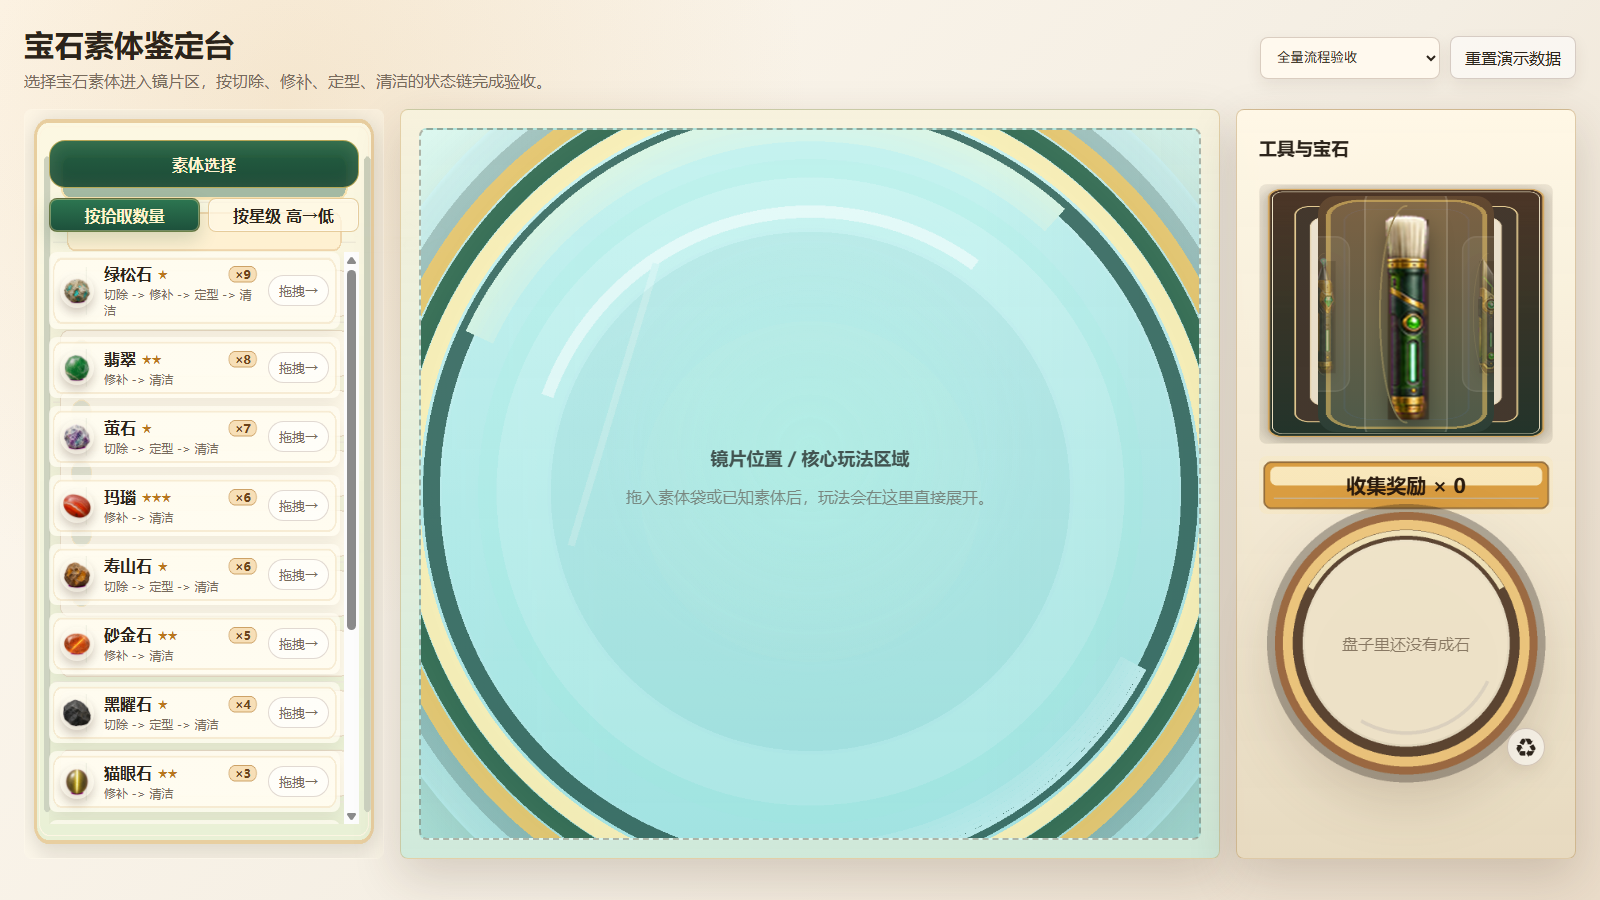
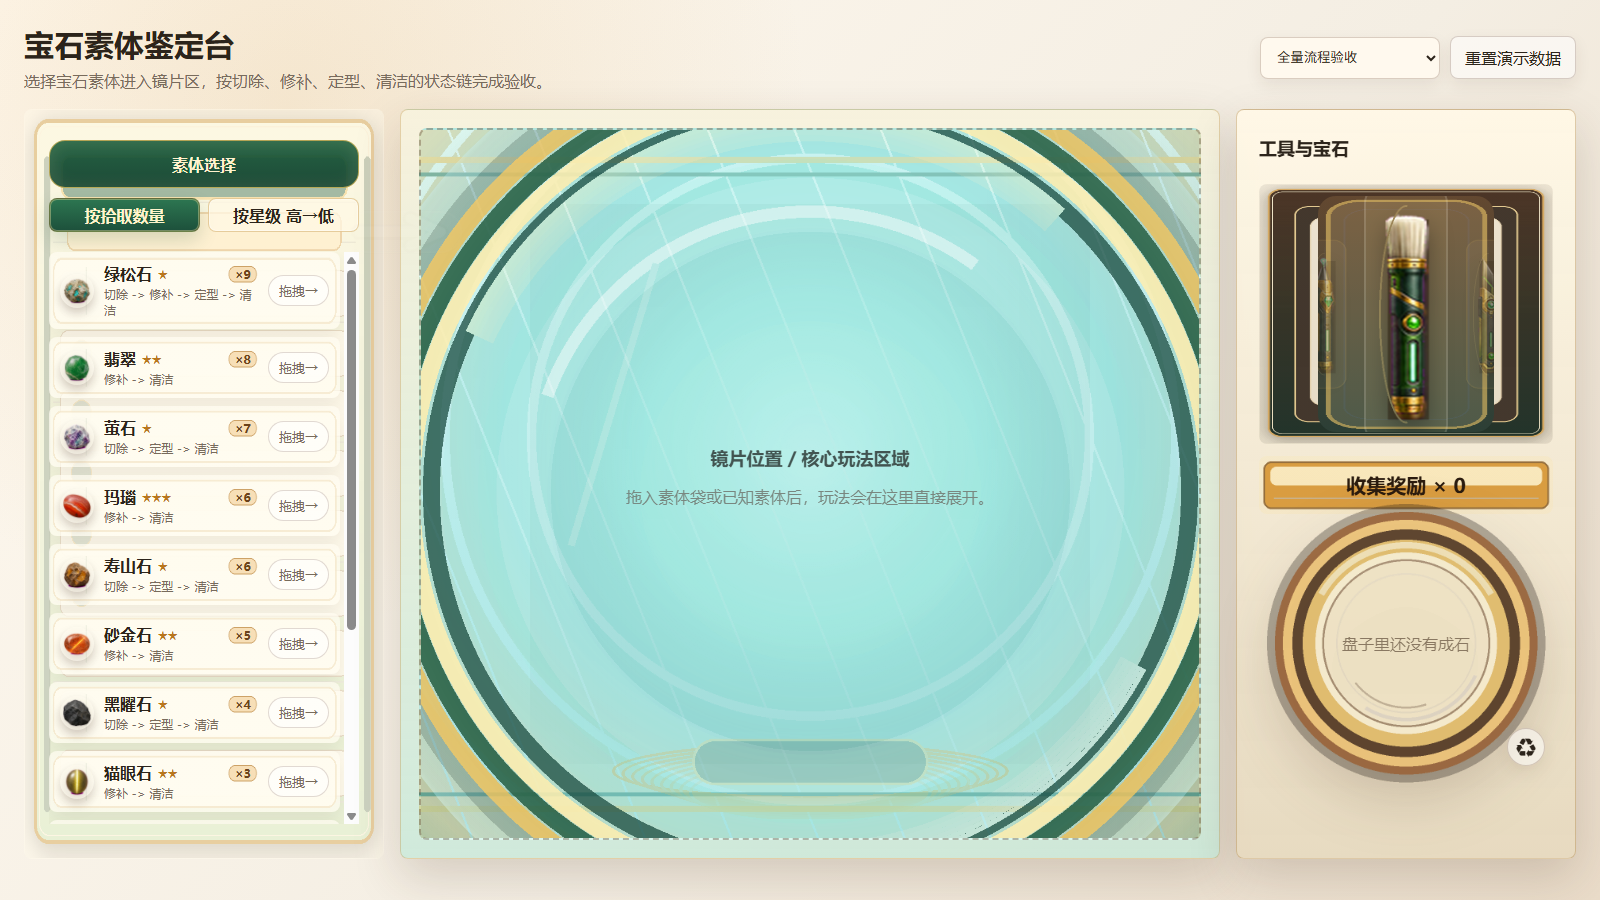
Expand v26 UI asset set

diff --git a/htmlDemo简单互动玩法/宝石鉴定html_v26RealAsset版.html b/htmlDemo简单互动玩法/宝石鉴定html_v26RealAsset版.html
@@ -1941,6 +1941,19 @@
         --v26-reward-modal:url("assets/ui_v26/ui_reward_modal/reward_modal_frame_C.png");
         --v26-mouse-wheel:url("assets/ui_v26/ui_hint_layer/mouse_wheel_icon_A.png");
         --v26-mouse-right:url("assets/ui_v26/ui_hint_layer/mouse_right_icon_A.png");
+        --v26-center-bg:url("assets/ui_v26/ui_center_stage/center_stage_bg_A.png");
+        --v26-center-glow:url("assets/ui_v26/ui_center_stage/center_stage_inner_glow_A.png");
+        --v26-stage-base:url("assets/ui_v26/ui_center_stage/center_stage_bottom_base_C.png");
+        --v26-hint-bg:url("assets/ui_v26/ui_hint_layer/hint_toast_bg_A.png");
+        --v26-defect-clean:url("assets/ui_v26/ui_defect_fx/defect_clean_swirl_A.png");
+        --v26-defect-cut:url("assets/ui_v26/ui_defect_fx/defect_cut_strip_C.png");
+        --v26-defect-repair:url("assets/ui_v26/ui_defect_fx/defect_repair_drop_C.png");
+        --v26-shape-circle:url("assets/ui_v26/ui_defect_fx/defect_shape_circle_C.png");
+        --v26-shape-triangle:url("assets/ui_v26/ui_defect_fx/defect_shape_triangle_C.png");
+        --v26-shape-square:url("assets/ui_v26/ui_defect_fx/defect_shape_square_C.png");
+        --v26-reward-slot:url("assets/ui_v26/ui_reward_modal/reward_item_slot_C.png");
+        --v26-reward-badge:url("assets/ui_v26/ui_reward_modal/reward_quantity_badge_C.png");
+        --v26-firework:url("assets/ui_v26/ui_reward_modal/reward_firework_particle_C.png");
     }
     body.v26-real-asset .bag-panel{
         padding:30px 24px 34px;
@@ -1990,6 +2003,9 @@
     }
     body.v26-real-asset .lens-stage{
         background:
+            var(--v26-stage-base) center bottom 4% / min(62%, 720px) auto no-repeat,
+            var(--v26-center-glow) center / 72% auto no-repeat,
+            var(--v26-center-bg) center / cover no-repeat,
             radial-gradient(circle at 50% 45%, rgba(196,255,232,.46), transparent 39%),
             linear-gradient(180deg, rgba(220,249,241,.94), rgba(169,227,220,.9));
     }
@@ -2006,6 +2022,16 @@
             inset 0 0 90px rgba(255,255,255,.25),
             0 34px 84px rgba(33,58,52,.16);
         mix-blend-mode:normal;
+    }
+    body.v26-real-asset .core-hint{
+        min-height:58px;
+        padding:15px 22px;
+        border:0;
+        background:
+            linear-gradient(rgba(255,250,235,.5), rgba(255,250,235,.5)),
+            var(--v26-hint-bg) center / 100% 100% no-repeat;
+        color:#4d3b29;
+        box-shadow:none;
     }
     body.v26-real-asset .lens-viewport::before,
     body.v26-real-asset .lens-viewport::after{
@@ -2065,6 +2091,10 @@
             linear-gradient(180deg, #634830, #2c3f36);
         box-shadow:none;
     }
+    body.v26-real-asset .tool-wheel-item:not(.active){
+        background:url("assets/ui_v26/ui_tool_box/tool_slot_side_C.png") center / 100% 100% no-repeat;
+        box-shadow:none;
+    }
     body.v26-real-asset .tool-wheel-item.active{
         background:rgba(255,225,154,.08);
     }
@@ -2122,6 +2152,63 @@
         width:70%;
         transform:translate(-50%, -50%);
         color:rgba(63,45,28,.58);
+    }
+    body.v26-real-asset .hotspot-clean::before{
+        background:
+            var(--v26-defect-clean) center / 100% 100% no-repeat,
+            radial-gradient(circle at 50% 50%, rgba(95,88,80,.26) 0 48%, rgba(95,88,80,.18) 60%, transparent 72%);
+    }
+    body.v26-real-asset .hotspot-repair{
+        width:72px;
+        height:96px;
+        border-radius:0;
+        background:var(--v26-defect-repair) center / contain no-repeat;
+        box-shadow:none;
+    }
+    body.v26-real-asset .hotspot-cut::before{
+        width:264px;
+        height:64px;
+        border:0;
+        background:var(--v26-defect-cut) center / 100% 100% no-repeat;
+        box-shadow:none;
+    }
+    body.v26-real-asset .hotspot-shape-circle::before{
+        width:220px;
+        height:220px;
+        border:0;
+        background:var(--v26-shape-circle) center / contain no-repeat;
+        box-shadow:none;
+    }
+    body.v26-real-asset .hotspot-shape-triangle::before{
+        width:232px;
+        height:232px;
+        background:var(--v26-shape-triangle) center / contain no-repeat;
+    }
+    body.v26-real-asset .hotspot-shape-square::before{
+        width:220px;
+        height:220px;
+        border-radius:0;
+        outline:0;
+        background:var(--v26-shape-square) center / contain no-repeat;
+    }
+    body.v26-real-asset .reward-modal.show::before,
+    body.v26-real-asset .reward-modal.show::after{
+        background-image:var(--v26-firework);
+        background-size:128px 128px;
+    }
+    body.v26-real-asset .reward-item{
+        border:0;
+        background:var(--v26-reward-slot) center / 100% 100% no-repeat;
+        box-shadow:none;
+    }
+    body.v26-real-asset .reward-amount{
+        min-width:42px;
+        min-height:30px;
+        display:grid;
+        place-items:center;
+        padding:0 8px;
+        background:var(--v26-reward-badge) center / 100% 100% no-repeat;
+        box-shadow:none;
     }
     body.v26-real-asset .reward-dialog{
         border:0;
@@ -2283,9 +2370,9 @@ const TOOL_NOTES = {
     clean:"擦净后闪光收纳"
 };
 const LENSES = [
-    { key:"A", label:"表层镜", filter:"rgba(127,223,255,.28)" },
-    { key:"B", label:"透光镜", filter:"rgba(214,156,255,.28)" },
-    { key:"C", label:"裂隙镜", filter:"rgba(151,232,163,.28)" }
+    { key:"A", label:"表层镜", filter:"url(\"assets/ui_v26/ui_lens_frame/lens_filter_surface_A.png\") center / cover no-repeat" },
+    { key:"B", label:"透光镜", filter:"url(\"assets/ui_v26/ui_lens_frame/lens_filter_transmit_B.png\") center / cover no-repeat" },
+    { key:"C", label:"裂隙镜", filter:"url(\"assets/ui_v26/ui_lens_frame/lens_filter_crack_C.png\") center / cover no-repeat" }
 ];
 const FACES = ["Face 1","Face 2","Face 3"];
 const SHAPE_TARGETS = ["circle", "triangle", "square"];

diff --git a/htmlDemo简单互动玩法/codex_changelist_宝石鉴定v24.md b/htmlDemo简单互动玩法/codex_changelist_宝石鉴定v24.md
@@ -166,3 +166,41 @@
 验证：
 
 - 已重新抽取 v26 HTML 内联 `<script>` 并通过 Node `--check`。
+## 2026-05-22 14:24 +08:00 - Codex 1 号
+
+本轮按“做更多的图”继续扩充 `v26RealAsset` 图片资产，并把关键资产接入 HTML。
+
+新增/更新 asset：
+
+- `ui_center_stage/center_stage_bg_A.png`
+- `ui_center_stage/center_stage_inner_glow_A.png`
+- `ui_center_stage/center_stage_bottom_base_C.png`
+- `ui_lens_frame/lens_filter_surface_A.png`
+- `ui_lens_frame/lens_filter_transmit_B.png`
+- `ui_lens_frame/lens_filter_crack_C.png`
+- `ui_hint_layer/hint_toast_bg_A.png`
+- `ui_hint_layer/gesture_arrow_down_A.png`
+- `ui_reward_modal/reward_item_slot_C.png`
+- `ui_reward_modal/reward_quantity_badge_C.png`
+- `ui_reward_modal/reward_firework_particle_C.png`
+- `ui_defect_fx/defect_clean_swirl_A.png`
+- `ui_defect_fx/defect_cut_strip_C.png`
+- `ui_defect_fx/defect_repair_drop_C.png`
+- `ui_defect_fx/defect_shape_circle_C.png`
+- `ui_defect_fx/defect_shape_triangle_C.png`
+- `ui_defect_fx/defect_shape_square_C.png`
+- `ui_motion_fx/fx_drag_particle_gold_A.png`
+- `ui_motion_fx/fx_drag_particle_green_A.png`
+- `ui_motion_fx/fx_clean_flash_ring_A.png`
+- `ui_tool_box/tool_slot_side_C.png`
+
+接入点：
+
+- 中心玩法区使用新的 `center_stage_bg_A`、`center_stage_inner_glow_A`、`center_stage_bottom_base_C`。
+- 三种镜片从纯 CSS 颜色层改为对应图片滤镜：表层镜、透光镜、裂隙镜。
+- 操作提示框改用 `hint_toast_bg_A`。
+- 清洁/切除/修补/定型热点接入新瑕疵 FX 图。
+- 奖励弹窗的每个奖励格和数量徽章接入新图片。
+- 奖励烟花接入新的 firework 粒子贴图。
+- 工具盒左右侧槽接入 `tool_slot_side_C`。
+- 更新 `asset-manifest.json` 与 `ui_v26_asset_contact_sheet.png`，当前 v26 asset 总数约 45 张。

diff --git a/htmlDemo简单互动玩法/codex_handoff_宝石鉴定原型.md b/htmlDemo简单互动玩法/codex_handoff_宝石鉴定原型.md
@@ -704,3 +704,25 @@ Q/E 只在这三个工具中循环：
 验证：
 
 - v26 内联脚本已重新通过 Node `--check`。
+# 2026-05-22 14:24 +08:00 Codex 1 号交接补充
+
+`v26RealAsset` 已继续扩充更多图片资产。
+
+新增方向：
+
+- 中心玩法区背景与底盘表演底座已经有第一批图片：`ui_center_stage/center_stage_bg_A.png`、`center_stage_inner_glow_A.png`、`center_stage_bottom_base_C.png`。
+- 镜片滤镜已经从纯色层升级为 3 张图片滤镜：表层镜、透光镜、裂隙镜。
+- 瑕疵层开始图片化：清洁漩涡、切除长条、修补滴液、三种定型轮廓都有对应 PNG。
+- 奖励弹窗补了奖励格、数量徽章、烟花粒子。
+- 工具盒补了左右侧槽图片。
+
+当前 HTML 接入情况：
+
+- `宝石鉴定html_v26RealAsset版.html` 已使用这些新增图片。
+- `asset-manifest.json` 与 `ui_v26_asset_contact_sheet.png` 已同步更新。
+- 当前 v26 asset 约 45 张。
+
+下一步建议：
+
+- 如果继续“更多图”，优先把底盘表演层细化成可叠加的 3-4 张：底座阴影、升起光环、收纳轨迹、完成闪光。
+- 瑕疵层可继续做“状态变化图”，例如修补三次点击后的三阶段滴液/裂痕消退贴图。
